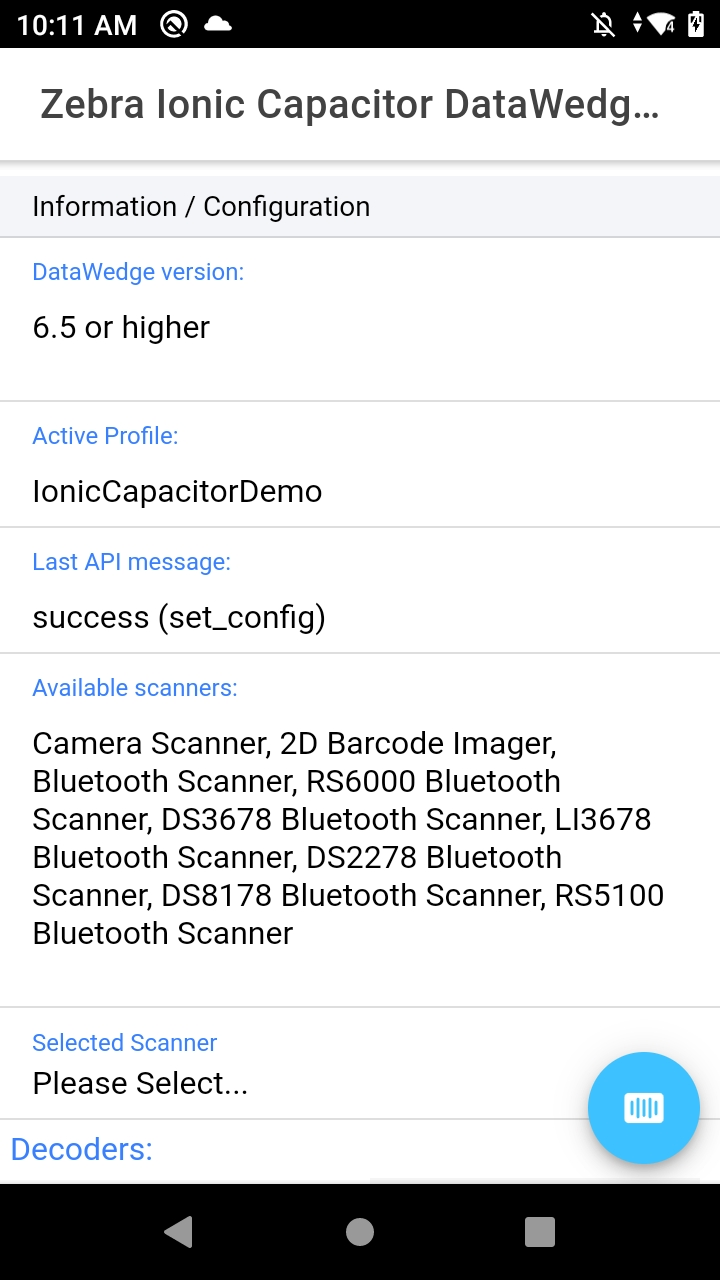
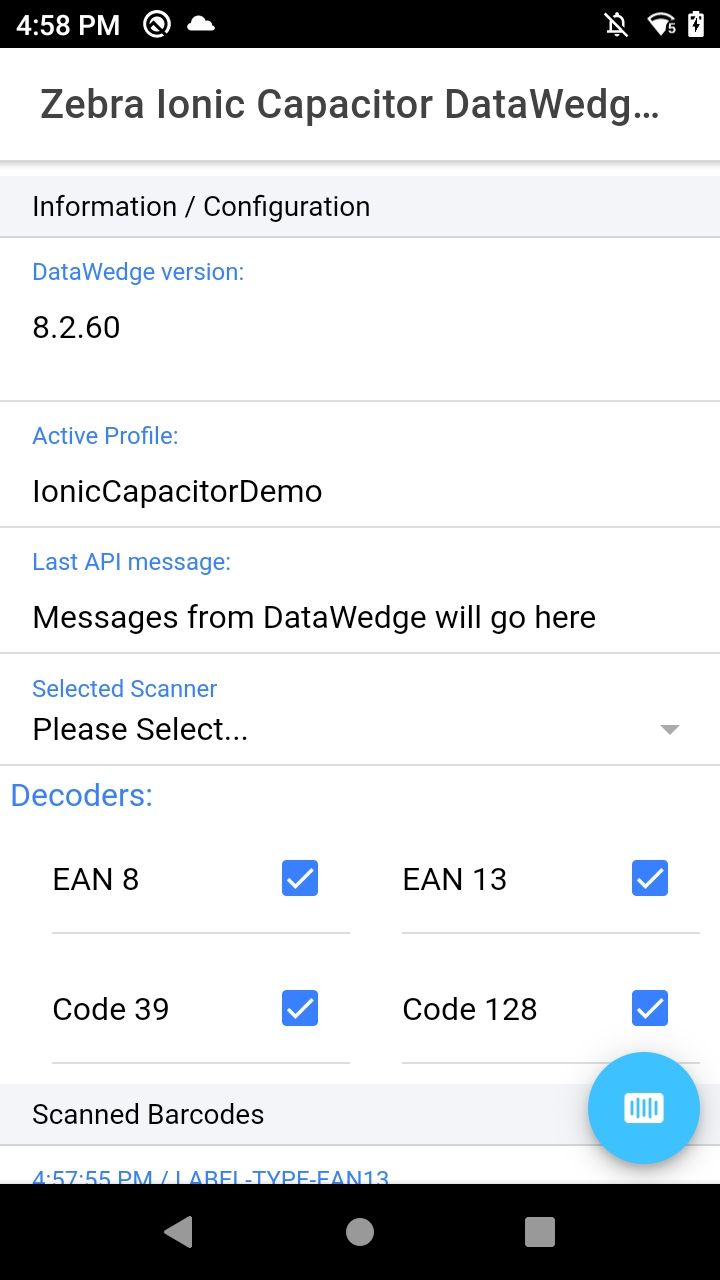
Update style, report real DW version, update screenshots.

diff --git a/src/app/home/home.page.ts b/src/app/home/home.page.ts
@@ -53,7 +53,7 @@ export class HomePage {
         ////////////////////////////
   
         //  6.3 DataWedge APIs are available
-        events.subscribe('status:dw63ApisAvailable', (isAvailable) => {
+        events.subscribe('status:dw63ApisAvailable', (obj) => {
           console.log("DataWedge 6.3 APIs are available");
           //  We are able to create the profile under 6.3.  If no further version events are received, notify the user
           //  they will need to create the profile manually
@@ -73,14 +73,14 @@ export class HomePage {
         });
   
         //  6.4 Datawedge APIs are available
-        events.subscribe('status:dw64ApisAvailable', (isAvailable) => {
+        events.subscribe('status:dw64ApisAvailable', (obj) => {
           console.log("DataWedge 6.4 APIs are available");
   
           //  Documentation states the ability to set a profile config is only available from DW 6.4.
           //  For our purposes, this includes setting the decoders and configuring the associated app / output params of the profile.
           this.dataWedgeVersion = "6.4";
           this.uiDatawedgeVersionAttention = false;
-          this.uiHideDecoders = !isAvailable;
+          this.uiHideDecoders = !obj.available;
   
           //  Configure the created profile (associated app and keyboard plugin)
           let profileConfig = {
@@ -125,7 +125,7 @@ export class HomePage {
         });
   
         //  6.5 Datawedge APIs are available
-        events.subscribe('status:dw65ApisAvailable', (isAvailable) => {
+        events.subscribe('status:dw65ApisAvailable', (obj) => {
           console.log("DataWedge 6.5 APIs are available");
   
           //  The ability to switch to a new scanner is only available from DW 6.5 onwards
@@ -136,7 +136,7 @@ export class HomePage {
           //  6.5 also introduced messages which are received from the API to indicate success / failure
           this.uiHideCommandMessages = false;
           this.barcodeProvider.requestResult(true);
-          this.dataWedgeVersion = "6.5 or higher";
+          this.dataWedgeVersion = obj.version;
           this.changeDetectorRef.detectChanges();
         });
   
@@ -239,7 +239,6 @@ export class HomePage {
     let alert = await this.alertController.create({
       subHeader: 'Requires Zebra device',
       message: 'This application requires a Zebra mobile device in order to run',
-      cssClass: 'nonZebraAlert',
       buttons: [{
         text: 'Close app',
         handler: data => {

diff --git a/src/app/barcode.service.ts b/src/app/barcode.service.ts
@@ -52,11 +52,11 @@ export class BarcodeService {
   
             //  Fire events sequentially so the application can gracefully degrade the functionality available on earlier DW versions
             if (datawedgeVersion >= "6.3")
-              constructorInstance.events.publish('status:dw63ApisAvailable', true);
+              constructorInstance.events.publish('status:dw63ApisAvailable', {"available":true, "version":datawedgeVersion});
             if (datawedgeVersion >= "6.4")
-              constructorInstance.events.publish('status:dw64ApisAvailable', true);
+              constructorInstance.events.publish('status:dw64ApisAvailable', {"available":true, "version":datawedgeVersion});
             if (datawedgeVersion >= "6.5")
-              constructorInstance.events.publish('status:dw65ApisAvailable', true);
+              constructorInstance.events.publish('status:dw65ApisAvailable', {"available":true, "version":datawedgeVersion});
           }
           else if (intent.extras.hasOwnProperty('com.symbol.datawedge.api.RESULT_ENUMERATE_SCANNERS')) {
             //  Return from our request to enumerate the available scanners

diff --git a/src/app/home/home.page.scss b/src/app/home/home.page.scss
@@ -3,29 +3,22 @@
 * All rights reserved.
 */
 
-page-home {
-  .no-padding {
-      padding: 0px !important;
-  }
-  .hide {
-      visibility:hidden;
-  }
-  .show {
-      visibility:visible;
-  }
-  .attention {
-      background-color:#FFD200;
-      color:#000000;
-  }
 
+.no-padding {
+    padding: 0px !important;
+}
+.hide {
+    display:none;
+}
+.show {
+    display:block;
+}
+.attention {
+    background-color:#FFD200;
+    color:#000000;
 }
 
-.nonZebraAlert .alert-wrapper {
-  background-color:#FFD200;
-  button {
-      background-color: #ffffff;
-  }
-}
+
 
 /*
 #container {

diff --git a/README.md b/README.md
@@ -3,8 +3,6 @@ Sample application showing an Ionic Capacitor app on Zebra Android devices
 
 ##  TODO
 
-- Report the actual version of DataWedge
-- Retake screenshots
 - Tidy code
 - Update Readme
 
